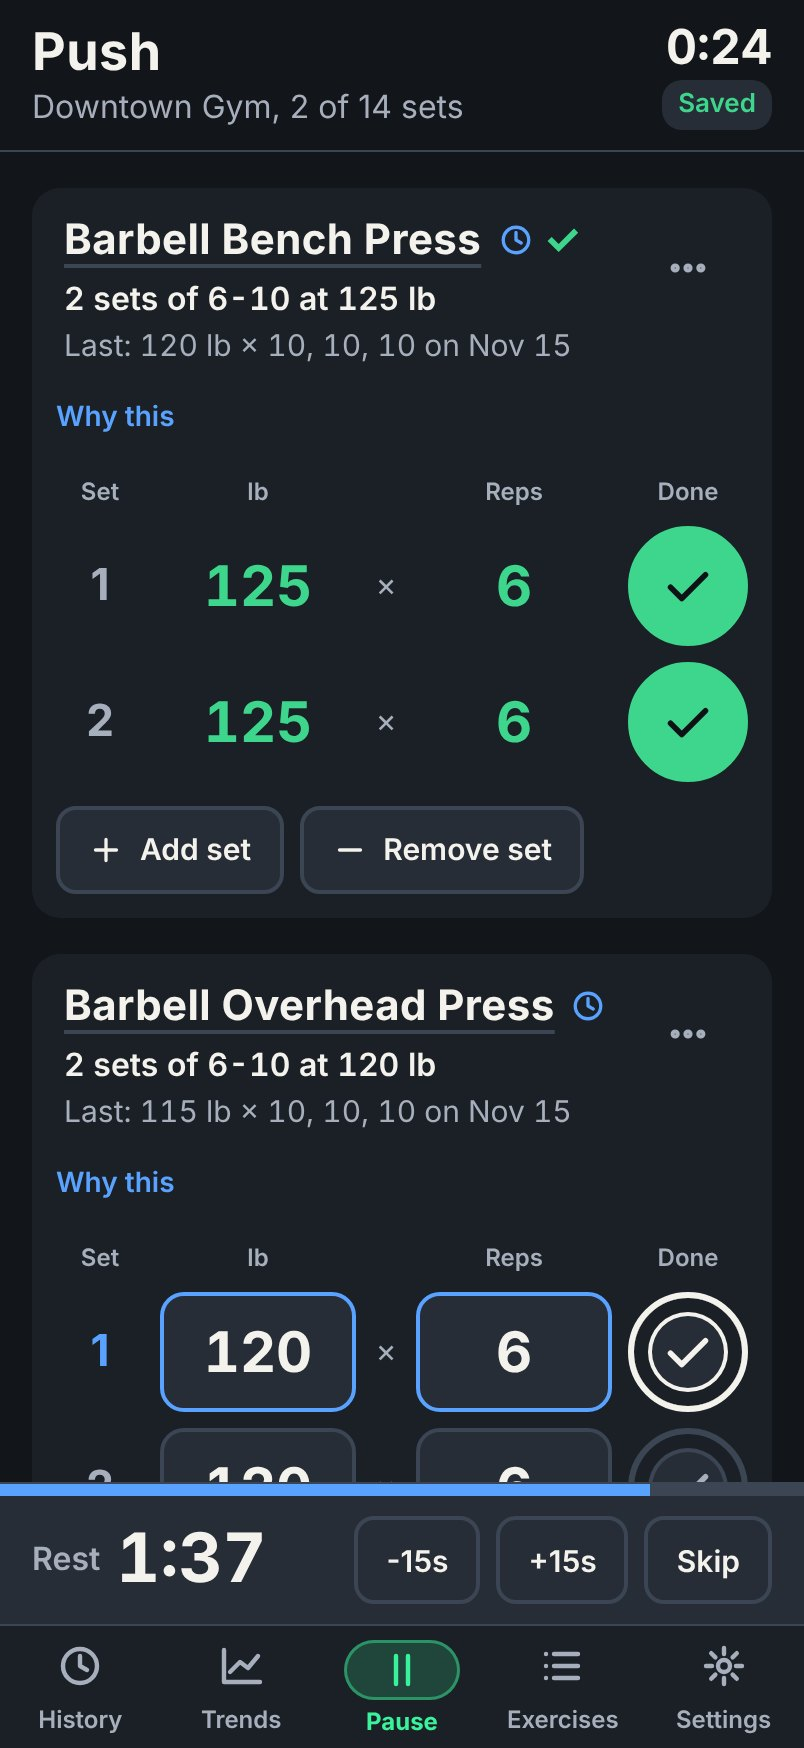
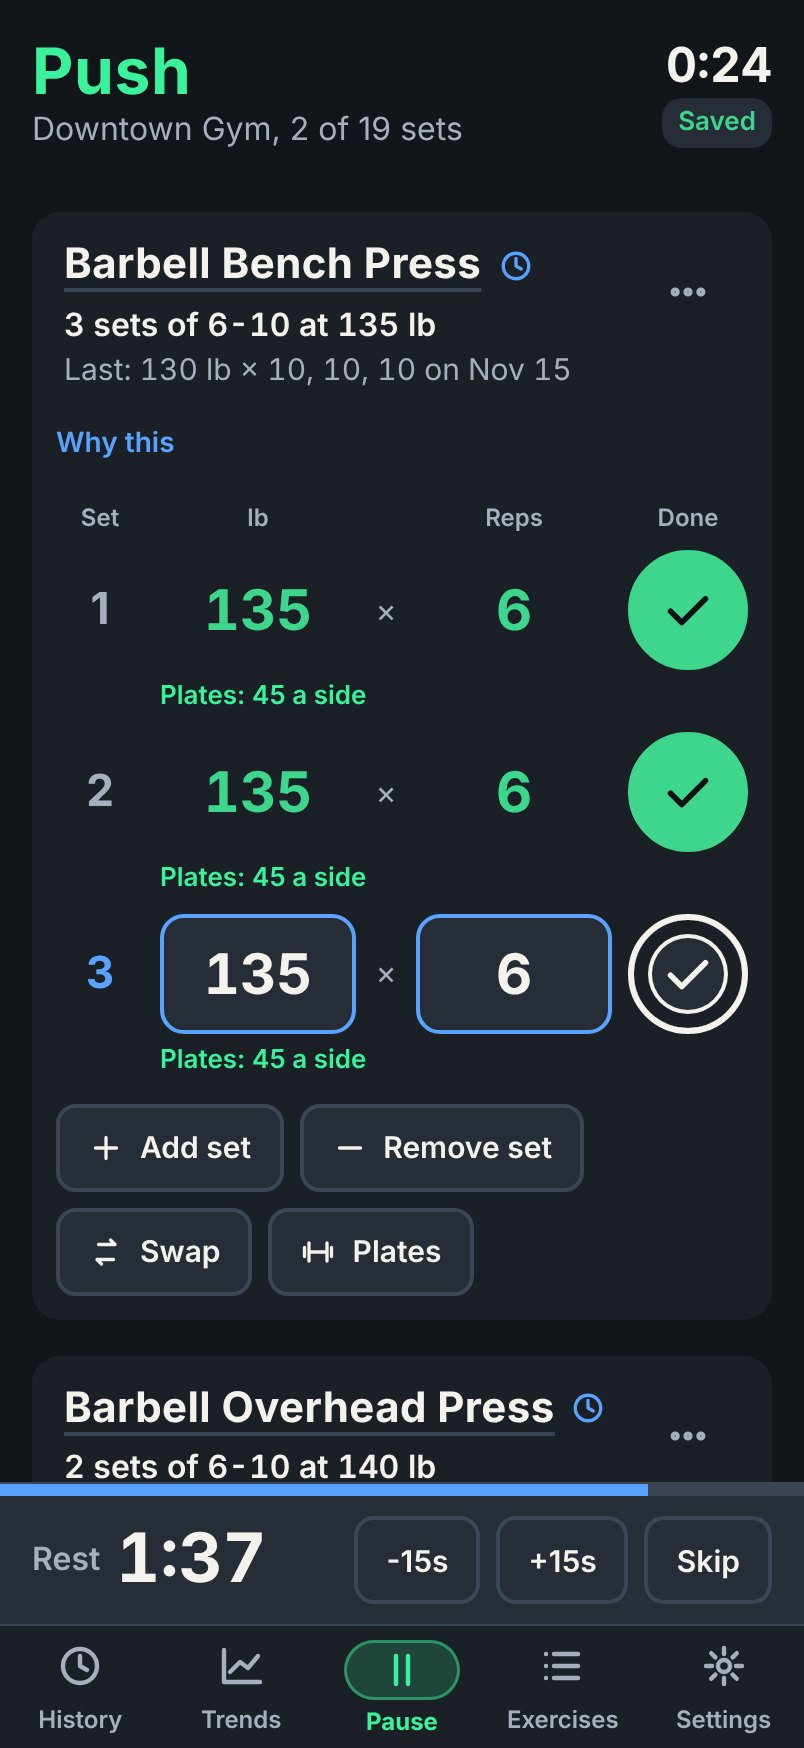
Add Calendar and Plate calculator to the README screenshots; refresh Workout in progress
Claude-Session: https://claude.ai/code/session_01AGct8yMtFv46AVy8j4srZs

diff --git a/README.md b/README.md
@@ -12,7 +12,7 @@ ThoeneFit is a self-hosted workout planner and log built for phones. Pick a gym 
 
 | Workout planner | Pick muscle groups | Workout in progress |
 | :---: | :---: | :---: |
-| <a href="docs/screenshots/workout-planner.jpg"><img src="docs/screenshots/workout-planner.jpg" width="250" alt="Today screen at Downtown Gym: a Push plan with a suggested weight, the last result and a muscle illustration for each lift"></a> | <a href="docs/screenshots/pick-muscle-groups.jpg"><img src="docs/screenshots/pick-muscle-groups.jpg" width="250" alt="The Pick muscle groups sheet: each muscle group with its illustration and recovery percentage, with the two most recovered groups selected"></a> | <a href="docs/screenshots/workout-in-progress.jpg"><img src="docs/screenshots/workout-in-progress.jpg" width="250" alt="Push workout in progress: two Barbell Bench Press sets done, the next set up, and the rest timer counting down"></a> |
+| <a href="docs/screenshots/workout-planner.jpg"><img src="docs/screenshots/workout-planner.jpg" width="250" alt="Today screen at Downtown Gym: a Push plan with a suggested weight, the last result and a muscle illustration for each lift"></a> | <a href="docs/screenshots/pick-muscle-groups.jpg"><img src="docs/screenshots/pick-muscle-groups.jpg" width="250" alt="The Pick muscle groups sheet: each muscle group with its illustration and recovery percentage, with the two most recovered groups selected"></a> | <a href="docs/screenshots/workout-in-progress.jpg"><img src="docs/screenshots/workout-in-progress.jpg" width="250" alt="Push workout in progress: two Barbell Bench Press sets done, the plates for each side under every set, and the rest timer counting down"></a> |
 
 | Exercise progress | Setup notes | Trends |
 | :---: | :---: | :---: |
@@ -21,6 +21,10 @@ ThoeneFit is a self-hosted workout planner and log built for phones. Pick a gym 
 | Saved routines | Shared workout | Share your workout |
 | :---: | :---: | :---: |
 | <a href="docs/screenshots/saved-routines.jpg"><img src="docs/screenshots/saved-routines.jpg" width="250" alt="The Workout picker open on Your routines: Back and Biceps, Heavy Legs and Monday Push"></a> | <a href="docs/screenshots/shared-workout.jpg"><img src="docs/screenshots/shared-workout.jpg" width="250" alt="Sam's Today screen after accepting Alex Rivera's workout: Shared by Alex Rivera, with weights suggested from Sam's own history"></a> | <a href="docs/screenshots/share-image.jpg"><img src="docs/screenshots/share-image.jpg" width="250" alt="Share workout on a finished workout: a preview of the image with the date, minutes, sets, a new personal record and each exercise, with Share and Save image buttons"></a> |
+
+| Calendar | Plate calculator |
+| :---: | :---: |
+| <a href="docs/screenshots/calendar.jpg"><img src="docs/screenshots/calendar.jpg" width="250" alt="History's November calendar: finished Push, Pull and Legs days filled in, Monday, Wednesday and Friday planned ahead, and Wednesday's planned Legs selected with Rest that day and Move to Thu"></a> | <a href="docs/screenshots/plate-calculator.jpg"><img src="docs/screenshots/plate-calculator.jpg" width="250" alt="Plates for set 3 of Barbell Bench Press: 140 lb drawn as a 45 and a 2.5 on each side of a 45 lb bar, with the bar choices and Use 140 lb for set 3"></a> |
 
 Sample data: Alex Rivera and Sam Lee are made-up people at a made-up gym. Tap a preview to open it at full size. To refresh these, see the steps at the top of [`docs/screenshots/capture.mjs`](docs/screenshots/capture.mjs).
 
